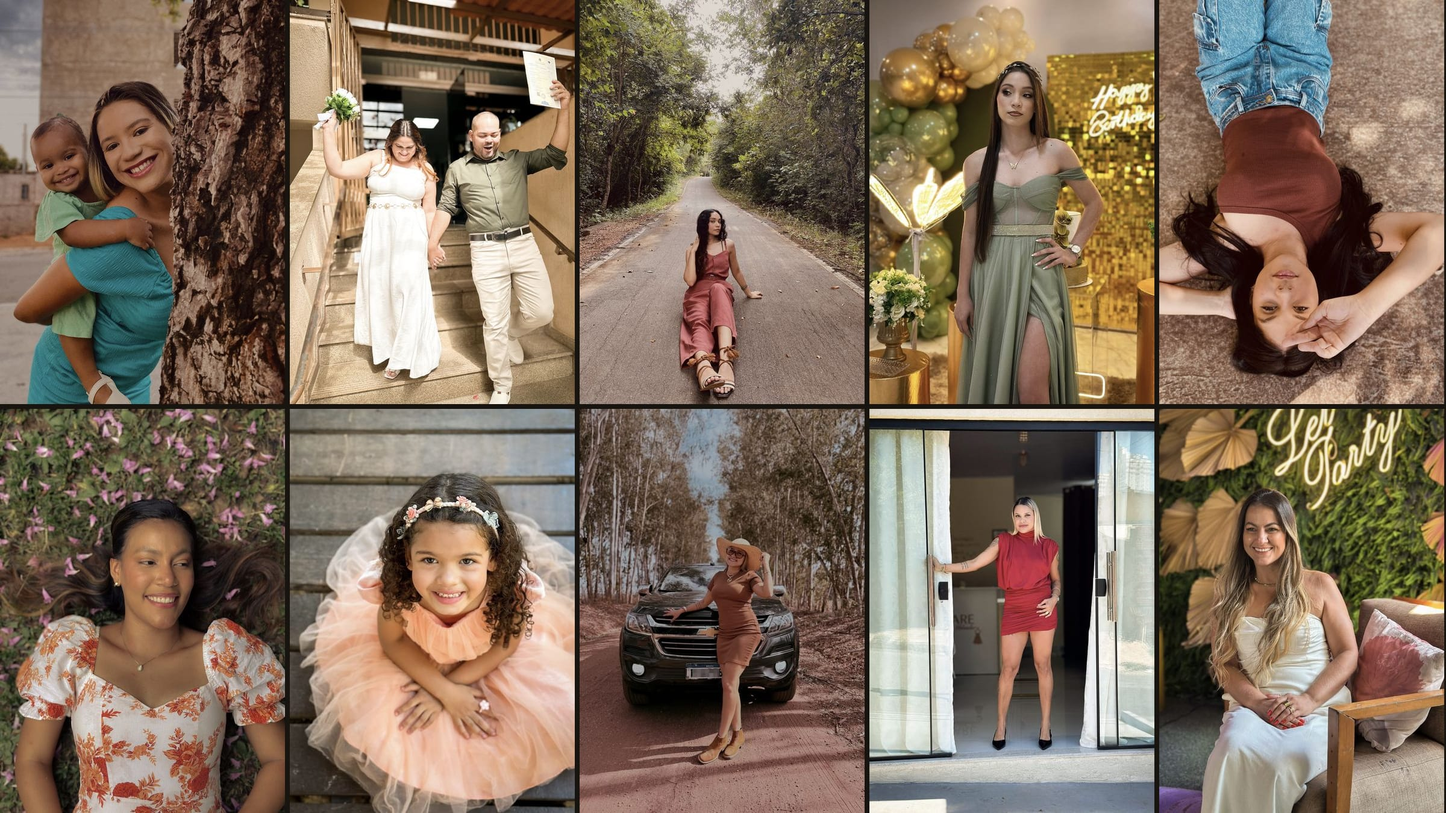
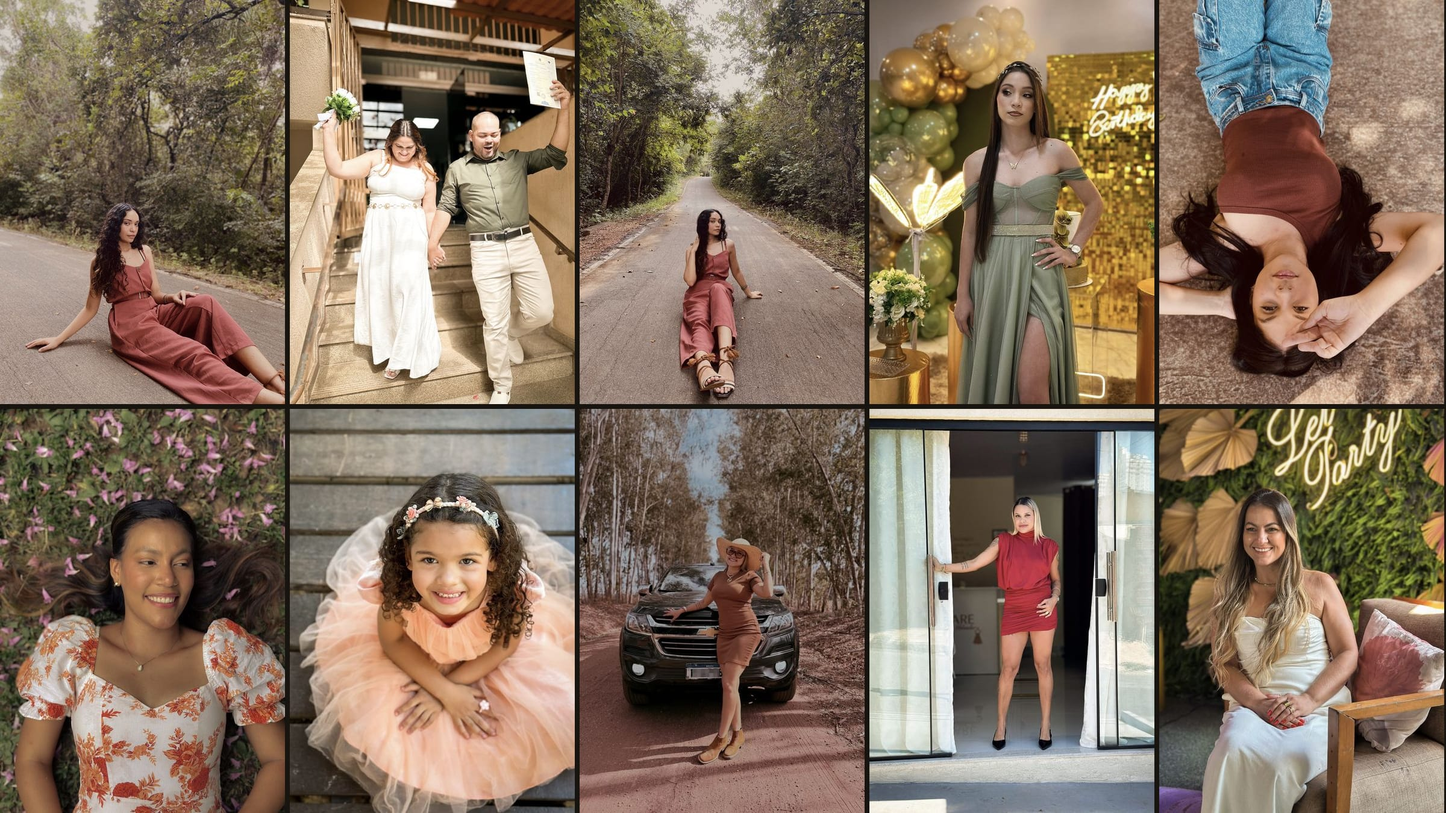
feat(portfolio): remover ensaio Maria & Filha
Remove a última foto do ensaio e a substitui no mosaico do hero.

Changed region(s): [[0.0, 0.0, 0.2188, 0.4978]]

diff --git a/src/pages/Portfolio.tsx b/src/pages/Portfolio.tsx
@@ -185,9 +185,6 @@ const MEDIA_ITEMS: MediaItem[] = [
   { src: mediaUrl("/ensaios/jude-1.jpg"), title: "Jude", cat: "Ensaios", type: "image" },
   { src: mediaUrl("/ensaios/jude-2.jpg"), title: "Jude", cat: "Ensaios", type: "image" },
 
-  // ─── Ensaios: Maria & Filha ──────────────────────────────────────────────
-  { src: mediaUrl("/ensaios/maria&filha4.jpg"), title: "Maria & Filha", cat: "Ensaios", type: "image" },
-
   // { src: mediaUrl("/trabalhos/deufome1.jpeg"), cat: "Trabalhos", type: "image" },
   // { src: mediaUrl("/trabalhos/deufome2.jpeg"), cat: "Trabalhos", type: "image" },
   // { src: mediaUrl("/trabalhos/deufome3.jpeg"), cat: "Trabalhos", type: "image" },
